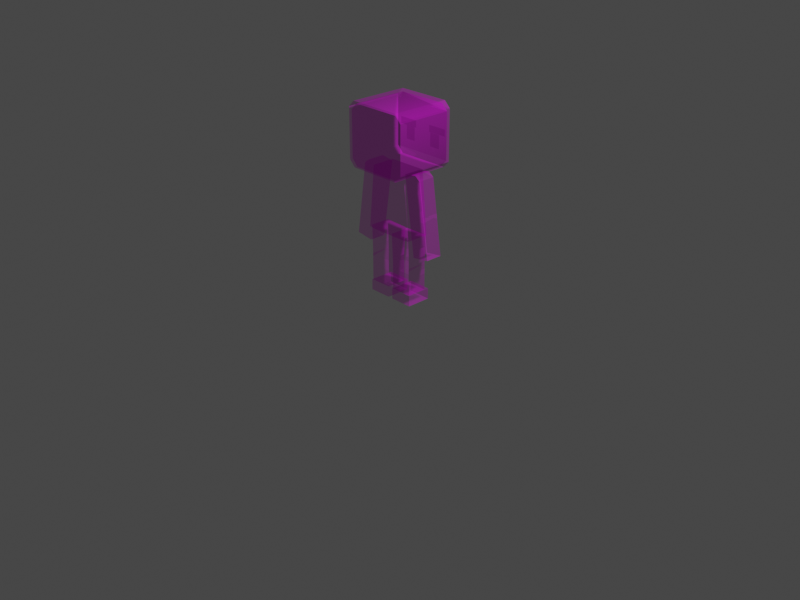
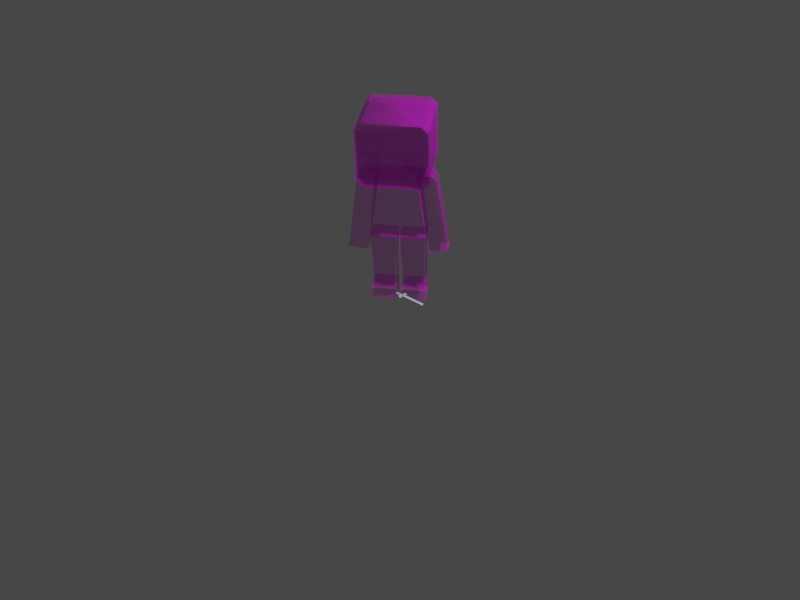
6.16 pose & item

Changed region(s): [[0.4375, 0.15, 0.5625, 0.51]]

diff --git a/main.py b/main.py
@@ -43,6 +43,7 @@ def make_pawn(global_config, composition_data, resource_data, pawn_param, apply_
 
     # components
 
+    component_objects = []
     components = pawn_data_format[2:]
     for comp_name in components:
 
@@ -64,6 +65,8 @@ def make_pawn(global_config, composition_data, resource_data, pawn_param, apply_
 
         comp_filepath = os.path.abspath(os.path.join(base_dir, "input", res_founded["FilePath"]))
         bpy.ops.import_scene.fbx( filepath = comp_filepath, automatic_bone_orientation = True, force_connect_children = True )
+
+        component_objects.append(bpy.context.selected_objects[:])
     
     # pose 
 
@@ -71,13 +74,75 @@ def make_pawn(global_config, composition_data, resource_data, pawn_param, apply_
     if apply_pose == True:
         pose_id = round(composition_data_founded["Pawn_PoseID"])
 
+        res_founded = None
+        for r in resource_data:
+            r_id = round(r["ID"])
+            if((r_id == pose_id) and (r["Category"] == "Pose")):
+                res_founded = r
+                break
+
+        if res_founded == None:
+            print("resource data not found ! please check resource.xls or run generate_config script! ID : " + str(pose_id))
+            return False
+
+        pose_filepath = os.path.abspath(os.path.join(base_dir, "input", res_founded["FilePath"]))
+        bpy.ops.import_scene.fbx( filepath = pose_filepath, automatic_bone_orientation = True, force_connect_children = True )
+
+        pose_objects = bpy.context.selected_objects[:]
+        bpy.ops.object.select_all(action='DESELECT')
+
+        for comp_obj in component_objects:
+            if(comp_obj[0].animation_data == None):
+                comp_obj[0].animation_data_create()
+            comp_obj[0].animation_data.action = bpy.data.actions[0]
+
+        bpy.ops.object.select_all(action='DESELECT')
+
+        for pose in pose_objects:
+            pose.select_set(True)
+
+        bpy.ops.object.delete()
 
     # item
     
     if apply_pose == True:
-        item_lefthand = round(composition_data_founded["Pawn_LeftHandID"])
-        item_righthand = round(composition_data_founded["Pawn_RightHandID"])
-        
+        item_lefthand = -1
+        item_righthand = -1
+        if(composition_data_founded["Pawn_LeftHandID"] != ""):
+            item_lefthand = round(composition_data_founded["Pawn_LeftHandID"])
+        if(composition_data_founded["Pawn_RightHandID"] != ""):
+            item_righthand = round(composition_data_founded["Pawn_RightHandID"])
+
+        if item_lefthand != -1:
+            res_founded = None
+            for r in resource_data:
+                r_id = round(r["ID"])
+                if((r_id == item_lefthand) and (r["Category"] == "Item")):
+                    res_founded = r
+                    break
+
+            if res_founded == None:
+                print("resource data not found ! please check resource.xls or run generate_config script! ID : " + str(item_lefthand))
+                return False
+
+            item_filepath = os.path.abspath(os.path.join(base_dir, "input", res_founded["FilePath"]))
+            bpy.ops.import_scene.fbx( filepath = item_filepath )
+
+
+        if item_righthand != -1:
+            res_founded = None
+            for r in resource_data:
+                r_id = round(r["ID"])
+                if((r_id == item_righthand) and (r["Category"] == "Item")):
+                    res_founded = r
+                    break
+
+            if res_founded == None:
+                print("resource data not found ! please check resource.xls or run generate_config script! ID : " + str(item_righthand))
+                return False
+
+            item_filepath = os.path.abspath(os.path.join(base_dir, "input", res_founded["FilePath"]))
+            bpy.ops.import_scene.fbx( filepath = item_filepath )
     
     return True
 
